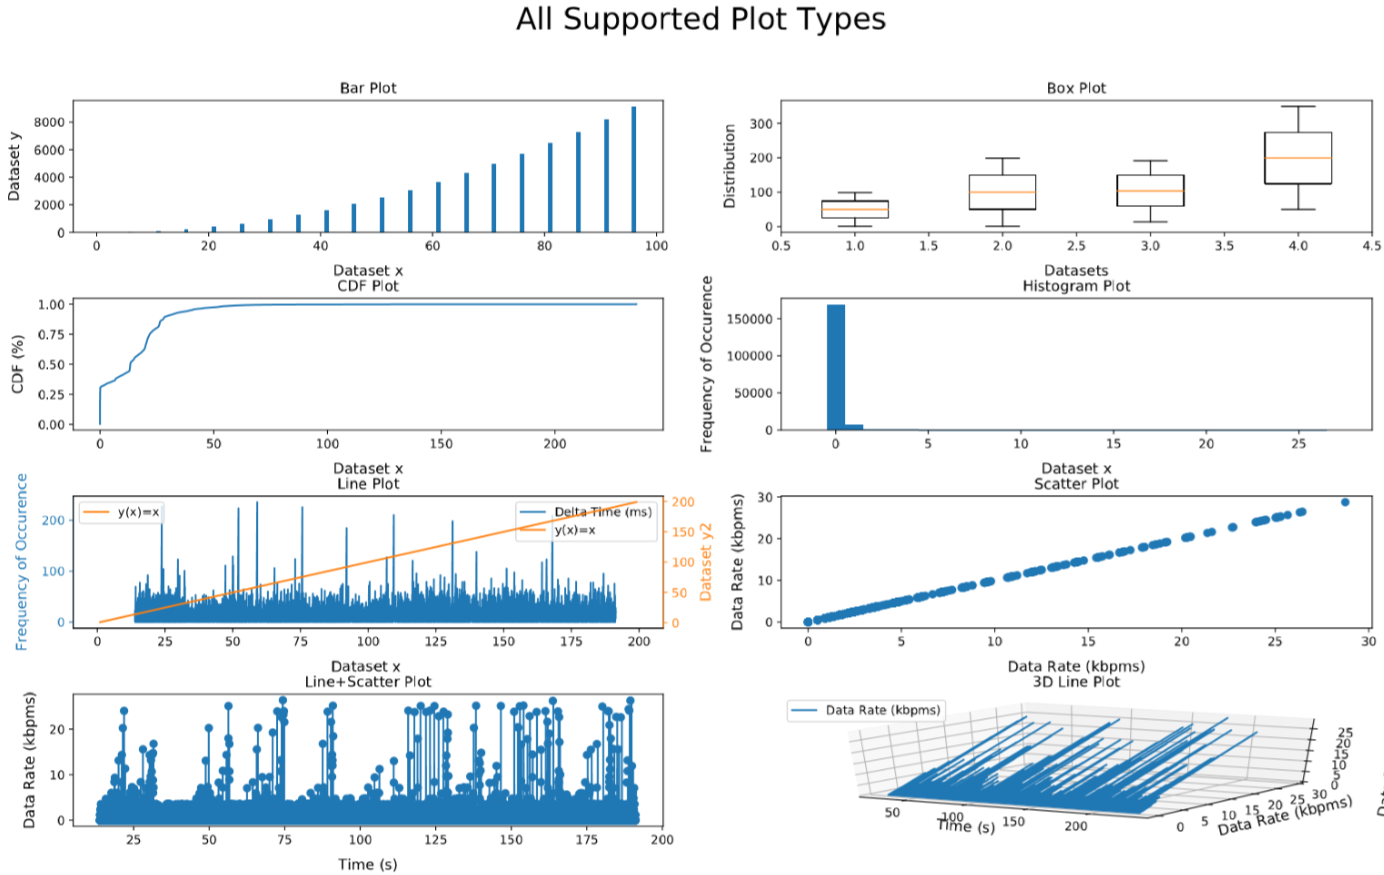
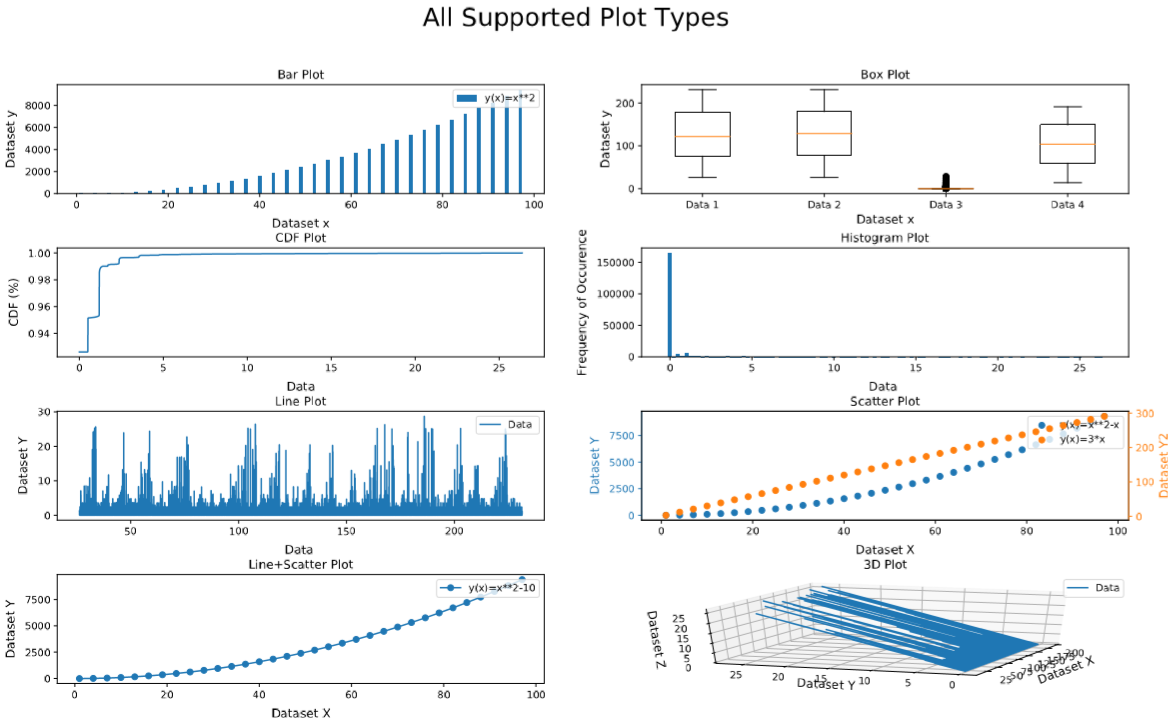
Labeling problems fixed. Azimuth and elevation angle options added for 3D plots. How to add new features added. Legend is fixed for 3rd axis plots

Changed region(s): [[0.0, 0.0915, 1.0, 1.0], [0.3699, 0.0, 0.6473, 0.061]]

diff --git a/pythonPlotter.py b/pythonPlotter.py
@@ -71,7 +71,7 @@ Please turn on your X-server first and then hit [enter]"""
         if numOfPlots > 1:
             self.host[self.figColCnt, self.figRowCnt].title.set_text(title)
             self.host[self.figColCnt, self.figRowCnt].title.set_size(config.axisLabelSize)
-        if not plotType in {'box', 'cdf', 'histogram'}: # box, cdf and hist plots do not have legend. thirdAxis has its own way of generating legends (e.g. line #159) 
+        if not plotType in {'box', 'cdf', 'histogram'} and not thirdAxis: # box, cdf and hist plots do not have legend. thirdAxis has its own way of generating legends (e.g. line #159) 
             self.host[self.figColCnt, self.figRowCnt].legend(loc = config.legendLoc)
         
         # logic to place subplots in the right location
@@ -166,6 +166,8 @@ Please turn on your X-server first and then hit [enter]"""
             self.host[self.figColCnt, self.figRowCnt] = self.fig.add_subplot(math.ceil(numOfPlots / numOfRow), numOfRow, plotCounter + 1, projection = '3d')
             for i in range(numData):
                 self.host[self.figColCnt, self.figRowCnt].plot(data[colNumX[i]], data[colNumY[i]], data[colNumZ[i]],  label = legendName[i])
+            self.host[self.figColCnt, self.figRowCnt].azim = config.threeD_azimDegree
+            self.host[self.figColCnt, self.figRowCnt].elev = config.threeD_elevDegree
             # padding and scaling options for z-axis
             self.host[self.figColCnt, self.figRowCnt].axes.zaxis.labelpad = config.zAxis_labelPad
             self.host[self.figColCnt, self.figRowCnt].set_zscale(config.scaleZ)
@@ -401,12 +403,12 @@ Please make sure that x and y data sizes match! """
         elif self.processType == 'getLabelX':
             print(self.qTxtLabelName %'x' + self.qTxtDefault %printVal)
         elif self.processType == 'getLabelY':
-            if not self.thirdAxisLabel:
-                print(self.qTxtLabelName %'y' + self.qTxtDefault %printVal)
-                self.thirdAxisLabel = True
-            else: # 3rd-axis enabled
+            if self.thirdAxis == True and self.thirdAxisLabel == True: 
                 print(self.qTxtLabelName %'2nd y' + self.qTxtDefault %printVal)
                 self.thirdAxisLabel = False
+            print(self.qTxtLabelName %'y' + self.qTxtDefault %printVal)
+            if self.plotSelect in {'line', 'scatter', 'line+scatter'}:
+                self.thirdAxisLabel = True
         elif self.processType == 'getLabelZ':
             print(self.qTxtLabelName %'z' + self.qTxtDefault %printVal)
         elif self.processType == 'getTitleName':
@@ -668,6 +670,7 @@ Please make sure that x and y data sizes match! """
         self.fetchColY = []
         self.fetchColZ = []
         self.legendName = []
+        self.yLabel = []
         
     # =============================== Ask plot type from user      
     def askPlotType(self, i):

diff --git a/config.py b/config.py
@@ -13,20 +13,22 @@ scaleZ = 'linear' # Scale of z-axes. Valid inputs are: 'linear', 'log', 'symlog'
 legendLoc = 'upper right' # NOTE: Option 'best' does not always show all the legends!! Choose the legend location of plots. Valid inputs are: 'best', 'upper left', 'upper right', 'lower left', 'lower right', 'upper center', 'lower center', 'center left', 'center right'
 axisLabelSize = 12 # font size of axes
 titleLabelSize = 25 # font size of main title
-xAxis_labelPad = 10 # padding size between x label and xticks in the plot. Increase it if label conflicts with ticks in the plot
-yAxis_labelPad = 10 # padding size between y label and yticks in the plot. Increase it if label conflicts with ticks in the plot
-zAxis_labelPad = 10 # padding size between z label and zticks in the plot. Increase it if label conflicts with ticks in the plot
+xAxis_labelPad = 8 # padding size between x label and xticks in the plot. Increase it if label conflicts with ticks in the plot
+yAxis_labelPad = 8 # padding size between y label and yticks in the plot. Increase it if label conflicts with ticks in the plot
+zAxis_labelPad = 2 # padding size between z label and zticks in the plot. Increase it if label conflicts with ticks in the plot
 subplots_hSpace = 0.5 # horizontal spacing between subplots. 
+threeD_azimDegree = -160 # Azimuth degree of viewpoint of 3D plots
+threeD_elevDegree = 30 # Elevation degree of viewpoint of 3D plots
 defaultPlotSelect = 'line' # default plot type to be used
 defaultInputDir = 'inputCsvFiles' # directory name where input csv files saved
 defaultInputFile = 'plotFromCsv.csv' # default csv file name of input data
-defaultDelimeter = ','
-defaultEncoding = 'utf-8-sig'
-defaultLegendNames = ['self.data']
-defaultXLabel = 'x'
-defaultYLabel = 'y'
-defaultZLabel = 'z'
-defaultTitle = 'title'
-histDefaultLabel = 'Frequency of Occurence'
-cdfDefaultLabel = 'CDF (%)'
+defaultDelimeter = ',' # Default delimeter type for CSV files
+defaultEncoding = 'utf-8-sig' # Default encoding type for CSV files
+defaultLegendNames = ['data'] # Default legend name
+defaultXLabel = 'x' # Default x-axis label name
+defaultYLabel = 'y' # Default y-axis label name
+defaultZLabel = 'z' # Default z-axis label name 
+defaultTitle = 'title' # Default title name
+histDefaultLabel = 'Frequency of Occurence' # Default y-axis label name of histogram plots
+cdfDefaultLabel = 'CDF (%)' # Default y-axis label name of CDF plots
  

diff --git a/README.md b/README.md
@@ -71,8 +71,15 @@ The PythonPlotter will ask you questions to generate your plots. Answer to the q
 Furthermore, please check out *config.py* where you will find further options to modify your plotting settings. 
 Please report the bugs so that I can improve the program. Also, expect to run into bugs as this is currently the first version of the program and I need feedbacks to improve the program. Thanks!
 
+## How to Add a New Feature to PythonPlotter? (To be Improved)
+To add a new plot type: 
+1. Add the name of your new plot type to the list *self.plotTypes*
+2. Add the required plotting functions into the function *mainPlotter()*
+3. If you need to define special type of requirements from user input, please check out the functions *checkUserInput()* and *acceptUserInput()*
+4. Check out other functions inside the class *userInteractions* in order to aligm user inputs to the requirements of your plot type.
+
 ## Features to be Added in the Future:
-1. Surface and wired 3D plots
+1. Surface and wired 3D plots along with colorbars
 2. Heat map plots
 3. Multi-color box plots
 4. Improve the x-axis offset of the input data in histogram plots
